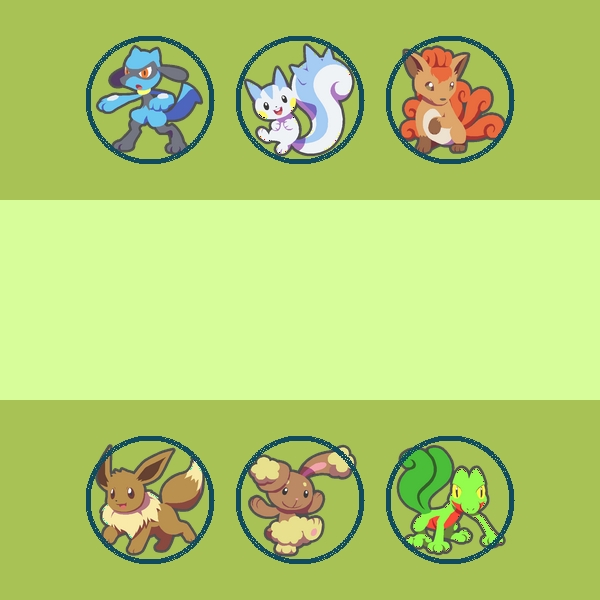
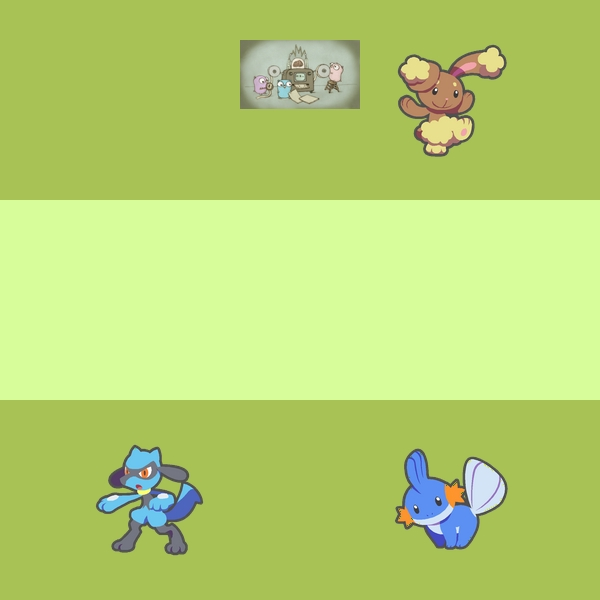
image.Imageまわりで型が合わなくてつらい

diff --git a/draw/iconparts.go b/draw/iconparts.go
@@ -5,36 +5,30 @@ import (
 	"image"
 	"image/color"
 	"image/draw"
+	_ "image/jpeg"
 	_ "image/png"
-	"math"
 	"math/rand"
-	"os"
 	"time"
-
-	"github.com/nfnt/resize"
 )
 
 type Icon struct {
 	frame_color color.Color
 	ImageUrl    string
-	C           Circle
-}
-
-type Circle struct {
-	Rad int
-	Pt  image.Point
+	rect        image.Rectangle
+	pic         *Picture
 }
 
 var x_width = IMG_SIZE / (MAX_ICON_NUM/2 + 1)
-var y_width = IMG_SIZE / 6
+var y_width = IMG_SIZE / 6 //これは決め打ち, 間の帯のサイズ次第
+var r = ICON_RADIUS
 
-var icon_points = [6]image.Point{
-	image.Point{x_width * 1, y_width},
-	image.Point{x_width * 2, y_width},
-	image.Point{x_width * 3, y_width},
-	image.Point{x_width * 1, IMG_SIZE - y_width},
-	image.Point{x_width * 2, IMG_SIZE - y_width},
-	image.Point{x_width * 3, IMG_SIZE - y_width},
+var iconPoints = [6]image.Rectangle{
+	image.Rect(1*x_width-r, y_width-r, 1*x_width+r, y_width+r),
+	image.Rect(2*x_width-r, y_width-r, 2*x_width+r, y_width+r),
+	image.Rect(3*x_width-r, y_width-r, 3*x_width+r, y_width+r),
+	image.Rect(1*x_width-r, 5*y_width-r, 1*x_width+r, 5*y_width+r),
+	image.Rect(2*x_width-r, 5*y_width-r, 2*x_width+r, 5*y_width+r),
+	image.Rect(3*x_width-r, 5*y_width-r, 3*x_width+r, 5*y_width+r),
 }
 
 // アイコン(=写真)を描画
@@ -52,64 +46,17 @@ func (t *Thumbnail) PutIcons() error {
 }
 
 func (icon *Icon) DrawIconImage(distImg *image.RGBA) error {
-	// 貼り付ける画像をimage.Image型として取得
-	iconImg, err := decodeImage(icon.ImageUrl)
+
+	// アイコン画像生成
+	pic, err := NewPicture(icon.ImageUrl)
 	if err != nil {
 		return err
 	}
-	// 合成
-	centerPt := icon.C.Pt
-	rad := icon.C.Rad
-	place := image.Rect(
-		centerPt.X-rad, // x0
-		centerPt.Y-rad, // y0
-		centerPt.X+rad, // x1
-		centerPt.Y+rad, // y1
-	)
+	icon.pic = pic
 
-	// 画像を丸く切り取るなど
-	cutImage(iconImg, icon.C)
+	draw.Draw(distImg, icon.rect, *pic.Img, image.Pt(0, 0), draw.Over)
 
-	// 画像貼り付け
-	draw.Draw(distImg, place, *iconImg, image.Pt(0, 0), draw.Over)
-
-	// 淵をつける
-	icon.C.drawBounds(distImg, DARK_GREEN)
 	return nil
-}
-
-// 画像を読み込み, リサイズ
-func decodeImage(imageUrl string) (*image.Image, error) {
-	f, err := os.Open(imageUrl)
-	if err != nil {
-		return nil, err
-	}
-	defer f.Close()
-	originImg, _, err := image.Decode(f)
-	if err != nil {
-		return nil, err
-	}
-	smallImg := resize.Thumbnail(ICON_RADIUS*2, ICON_RADIUS*2, originImg, resize.Lanczos3)
-
-	return &smallImg, nil
-
-}
-
-// 画像を丸く切り取る
-func cutImage(img *image.Image, circle Circle) {
-	return
-}
-
-// 枠を書く
-func (c *Circle) drawBounds(img *image.RGBA, col color.Color) {
-	for rad := 0.0; rad < 2.0*float64(c.Rad); rad += 0.1 {
-		for i := 0; i < 5; i++ {
-			x := int(float64(c.Pt.X) + float64(c.Rad+i)*math.Cos(rad))
-			y := int(float64(c.Pt.Y) + float64(c.Rad+i)*math.Sin(rad))
-			img.Set(x, y, col)
-
-		}
-	}
 }
 
 // アイコンをセット
@@ -119,15 +66,16 @@ func CreateIcons(urls []string) ([]*Icon, error) {
 	var icons []*Icon
 
 	// iconを配置する場所をランダムに決定
-	points := icon_points[:]
+	points := iconPoints[:]
 	iconNum := len(urls)
 
 	rand.Seed(time.Now().UnixNano())
+	var rnum int
 	for i := 0; i < iconNum && i < MAX_ICON_NUM; i++ {
 		icon := &Icon{}
 		// 設置場所
-		rnum := rand.Intn(len(points))
-		icon.C = Circle{Rad: ICON_RADIUS, Pt: points[rnum]}
+		rnum = rand.Intn(len(points))
+		icon.rect = points[rnum]
 		points = append(points[:rnum], points[rnum+1:]...)
 
 		// 画像

diff --git a/draw/mask.go b/draw/mask.go
@@ -1,0 +1,94 @@
+package draw
+
+import (
+	"image"
+	"image/color"
+	"image/draw"
+	"math"
+	"os"
+
+	"github.com/nfnt/resize"
+)
+
+type Picture struct {
+	Img *image.RGBA
+}
+
+func NewPicture(imageUrl string) (*Picture, error) {
+	pic := &Picture{}
+	// イメージをimage.Imageに変換し, リサイズ
+	img, err := decodeImage(imageUrl)
+	if err != nil {
+		return nil, err
+	}
+
+	// アイコンを丸く切り取る
+	out := cutImage(img)
+
+	// ふちをつける
+	drawBounds(out, DARK_GREEN)
+
+	pic.Img = out
+	return pic, nil
+}
+
+func decodeImage(imageUrl string) (*image.Image, error) {
+	f, err := os.Open(imageUrl)
+	if err != nil {
+		return nil, err
+	}
+	defer f.Close()
+	originImg, _, err := image.Decode(f)
+	if err != nil {
+		return nil, err
+	}
+	smallImg := resize.Thumbnail(ICON_RADIUS*2, ICON_RADIUS*2, originImg, resize.Lanczos3)
+
+	return &smallImg, nil
+}
+
+func cutImage(in *image.Image) *image.RGBA {
+	// 土台
+	out := image.NewRGBA(image.Rect(0, 0, 2*ICON_RADIUS, 2*ICON_RADIUS))
+	mask := &circle{image.Pt(ICON_RADIUS, ICON_RADIUS), ICON_RADIUS}
+	// 画像切り取り
+	draw.DrawMask(out, out.Bounds(), *in, image.ZP, mask, image.ZP, draw.Over)
+	return out
+}
+
+// 枠を書く
+func drawBounds(img *image.RGBA, col color.Color) {
+	r := ICON_RADIUS
+	for rad := 0.0; rad < 2.0*float64(ICON_RADIUS); rad += 0.1 {
+		for i := 0; i < 5; i++ {
+			x := int(float64(r) + float64(r+i)*math.Cos(rad))
+			y := int(float64(r) + float64(r+i)*math.Sin(rad))
+			img.Set(x, y, col)
+
+		}
+	}
+}
+
+// *************************************************************** //
+// 画像マスク用
+
+type circle struct {
+	p image.Point
+	r int
+}
+
+func (c *circle) ColorModel() color.Model {
+	return color.AlphaModel
+}
+
+func (c *circle) Bounds() image.Rectangle {
+	return image.Rect(c.p.X-c.r, c.p.Y-c.r, c.p.X+c.r, c.p.Y+c.r)
+}
+
+func (c *circle) At(x, y int) color.Color {
+	xx, yy, rr := float64(x-c.p.X)+0.5, float64(y-c.p.Y)+0.5, float64(c.r)
+	if xx*xx+yy*yy < rr*rr {
+		return color.Alpha{255}
+	}
+	return color.Alpha{0}
+}

diff --git a/main.go b/main.go
@@ -10,16 +10,17 @@ import (
 func main() {
 
 	urls := []string{
-		"./pictures/0.png",
-		"./pictures/1.png",
-		"./pictures/2.png",
-		"./pictures/3.png",
-		"./pictures/4.png",
-		"./pictures/5.png",
-		"./pictures/6.png",
+		// "./pictures/0.png",
+		// "./pictures/1.png",
+		// "./pictures/2.png",
+		// "./pictures/3.png",
+		// "./pictures/4.png",
+		// "./pictures/5.png",
+		// "./pictures/6.png",
 		"./pictures/7.png",
 		"./pictures/8.png",
 		"./pictures/9.png",
+		"./pictures/10.jpg",
 	}
 	t := draw.NewThumbnail(urls)
 	// RectからRGBAを作る(ゼロ値なので黒なはず)
